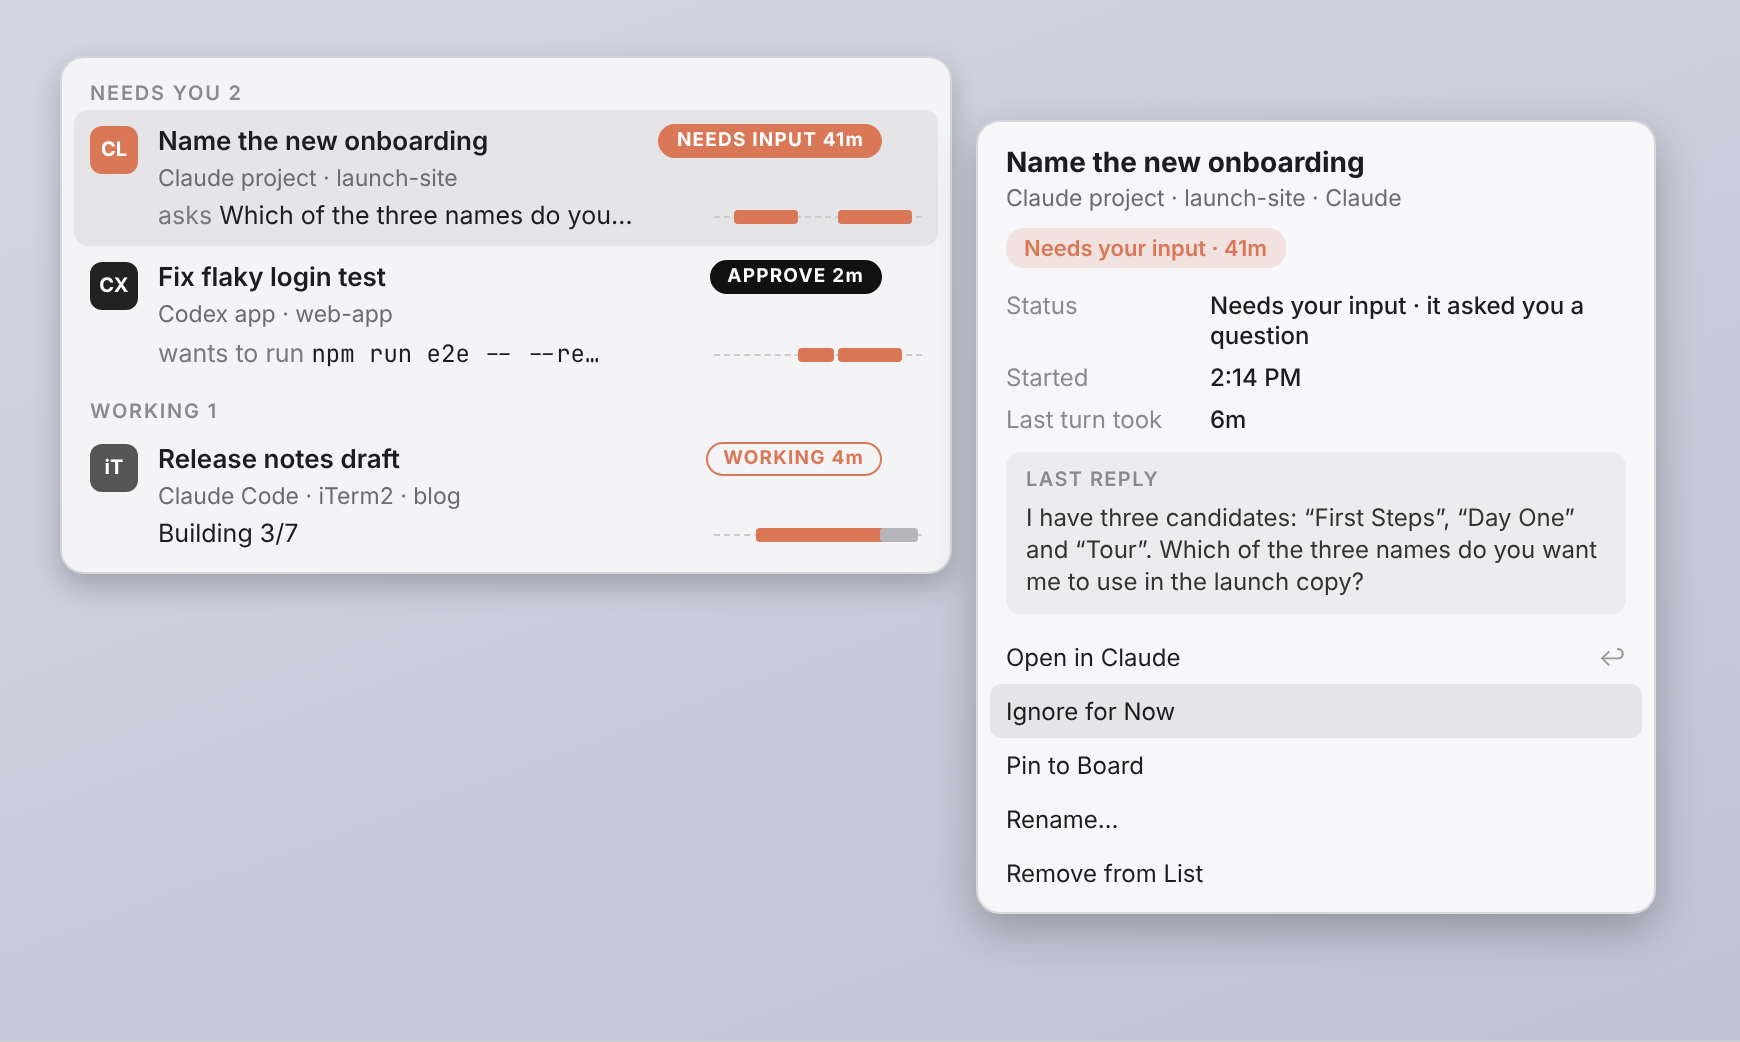
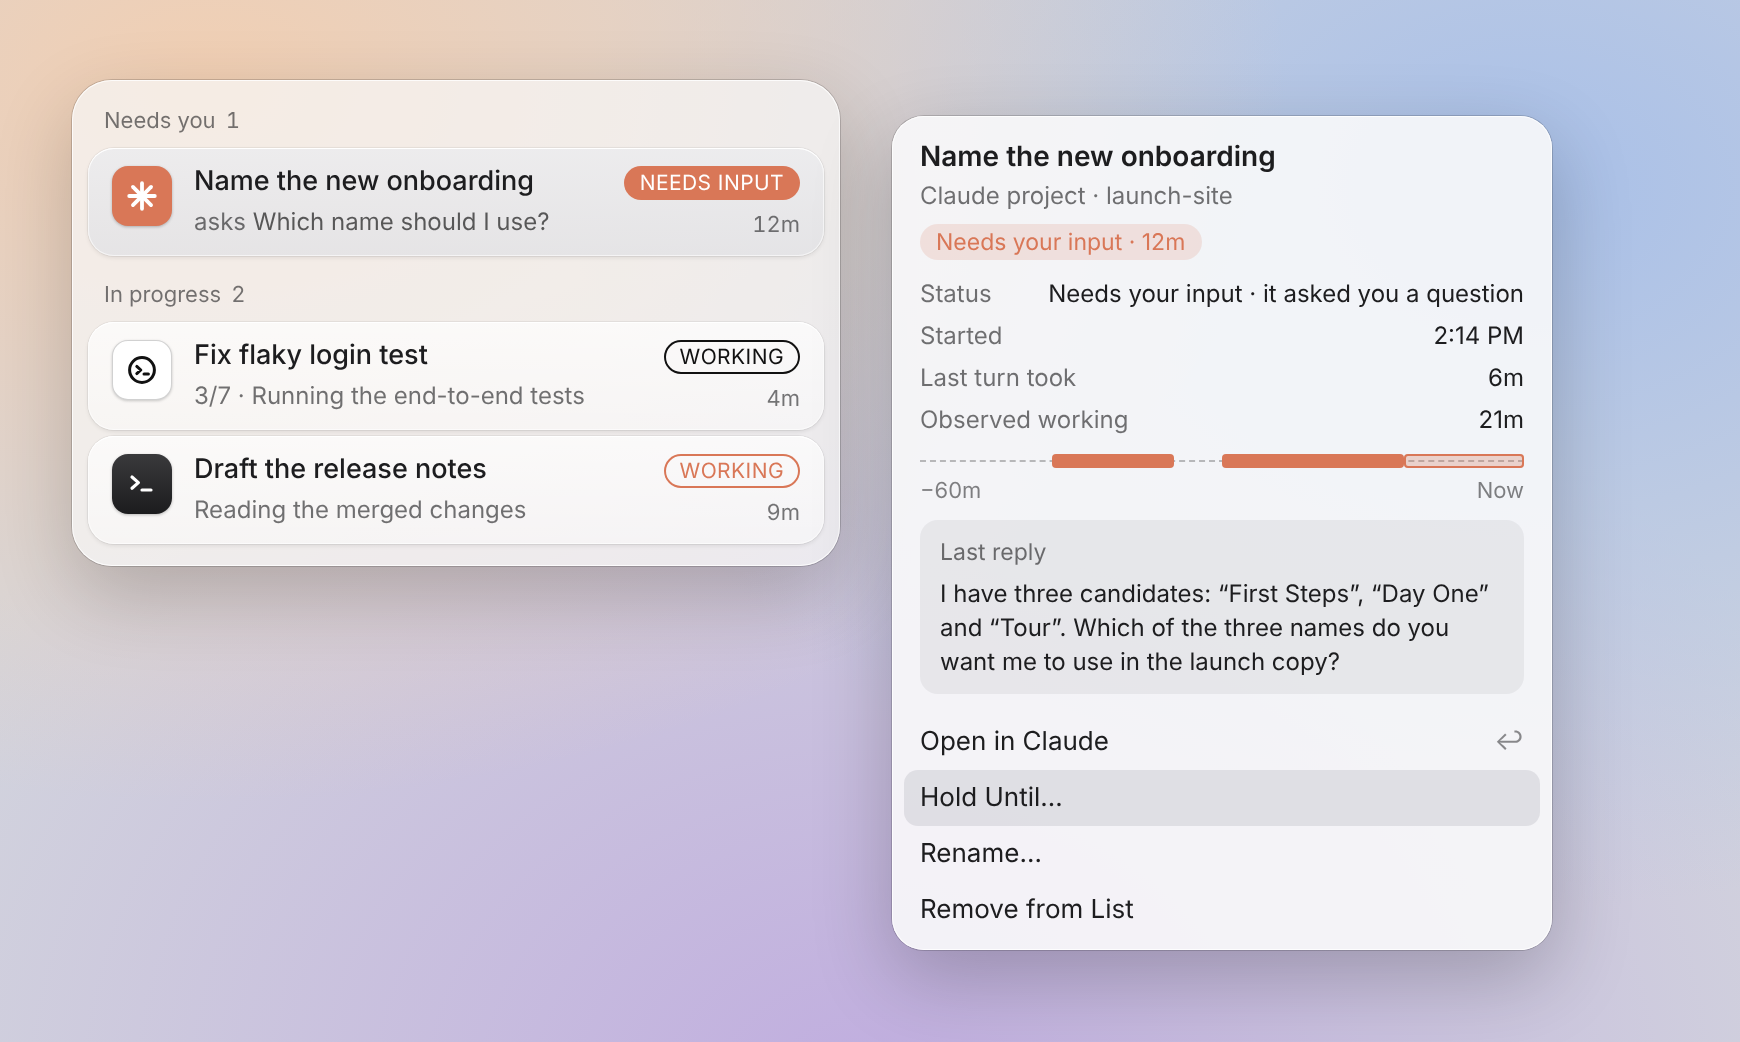
README: panel and hover card illustrations in the 1.2 look
Both images are drawn, with made-up sessions: session rows as tiles, the
On hold line with one held session, the toaster mark, and a hover card
whose action is Hold Until. The caption no longer says the picture is
from 1.1.

Changed region(s): [[0.0, 0.0, 0.9931, 1.0]]

diff --git a/README.zh-CN.md b/README.zh-CN.md
@@ -130,7 +130,7 @@ Windows 11 用户可从 [Windows 预发行页](https://github.com/alextang809/ai
 - **Hold Until（先搁置）：**在等你回答或回复的会话（APPROVE 不行）可以先搁置：把这一行拖到面板底部 **On hold** 时间线上的某一天，或者在悬停卡片、右键菜单、悬浮窗里选 **Hold Until**，可以选今天晚些时候、某一天，或者 **Waiting on…**（在等某个人）。通知上也有 **Hold** 按钮。搁置的会话离开 Needs you，不计数，搁置的时间也不算作"等了你多久"。到时间后它回到 Needs you，标着 **Back from hold**，不发通知。点 **Bring Back Now** 可以提前取回；它请求批准时也会自动结束搁置。AI Runs 自动选的日期会跳过周末。
 
   <p align="center"><img src="docs/flyout.png" width="560" alt="鼠标停在某一行上会显示详情和操作"></p>
-  <p align="center"><sub><i>1.1 版的示意图：鼠标停在某一行上看详情和操作。现在 Hold Until 取代了 Ignore for Now。</i></sub></p>
+  <p align="center"><sub><i>示意图：鼠标停在某一行上看详情和操作。</i></sub></p>
 - **改名、置顶到钉板**等：右键某一行，或者把鼠标停在上面看详情。
 - **悬浮窗：**在面板最下面点 **Floating Window**。一个小胶囊会停在所有 App、所有桌面、全屏窗口的上面，也支持台前调度（Stage Manager），显示有几个会话在等你。切换 App 或唤醒 Mac 后会恢复显示，不抢走键盘焦点。点一下展开，能看到会话列表和钉板；可以拖到任何地方，靠近屏幕边缘会自动吸附。点 **Floating Window** 后会保持隐藏，直到你再次显示它。有会话等你时自动展开的功能默认关闭，可在设置里打开，只对已经显示的悬浮窗生效。
 - **钉板：**在悬浮窗的 Pinned 标签里，按项目分组，记下不想丢的线程和随手的笔记。往里拖文字或链接就会生成卡片。

diff --git a/README.md b/README.md
@@ -177,7 +177,7 @@ tell, it says **REPLIED** rather than guess. Hover a row to see how it decided.
   weekends.
 
   <p align="center"><img src="docs/flyout.png" width="560" alt="Hovering a row shows its details and actions"></p>
-  <p align="center"><sub><i>Illustration from 1.1: hover a row for its details and actions. Hold Until now takes the place of Ignore for Now.</i></sub></p>
+  <p align="center"><sub><i>Illustration: hover a row for its details and actions.</i></sub></p>
 - The displayed topic follows changes in your requests. **Rename** keeps a name of your choice.
 - Click the pin at the end of a session row to follow its latest progress in **Pinned**. When it asks for input or approval, the row moves to **Needs you** and returns to **Pinned** after you respond. Open **Details** and choose **Save Reply** beside a message to keep that version under **Later** in either window.
 - **Floating window:** click **Floating Window** at the bottom of the panel. A small capsule stays on
